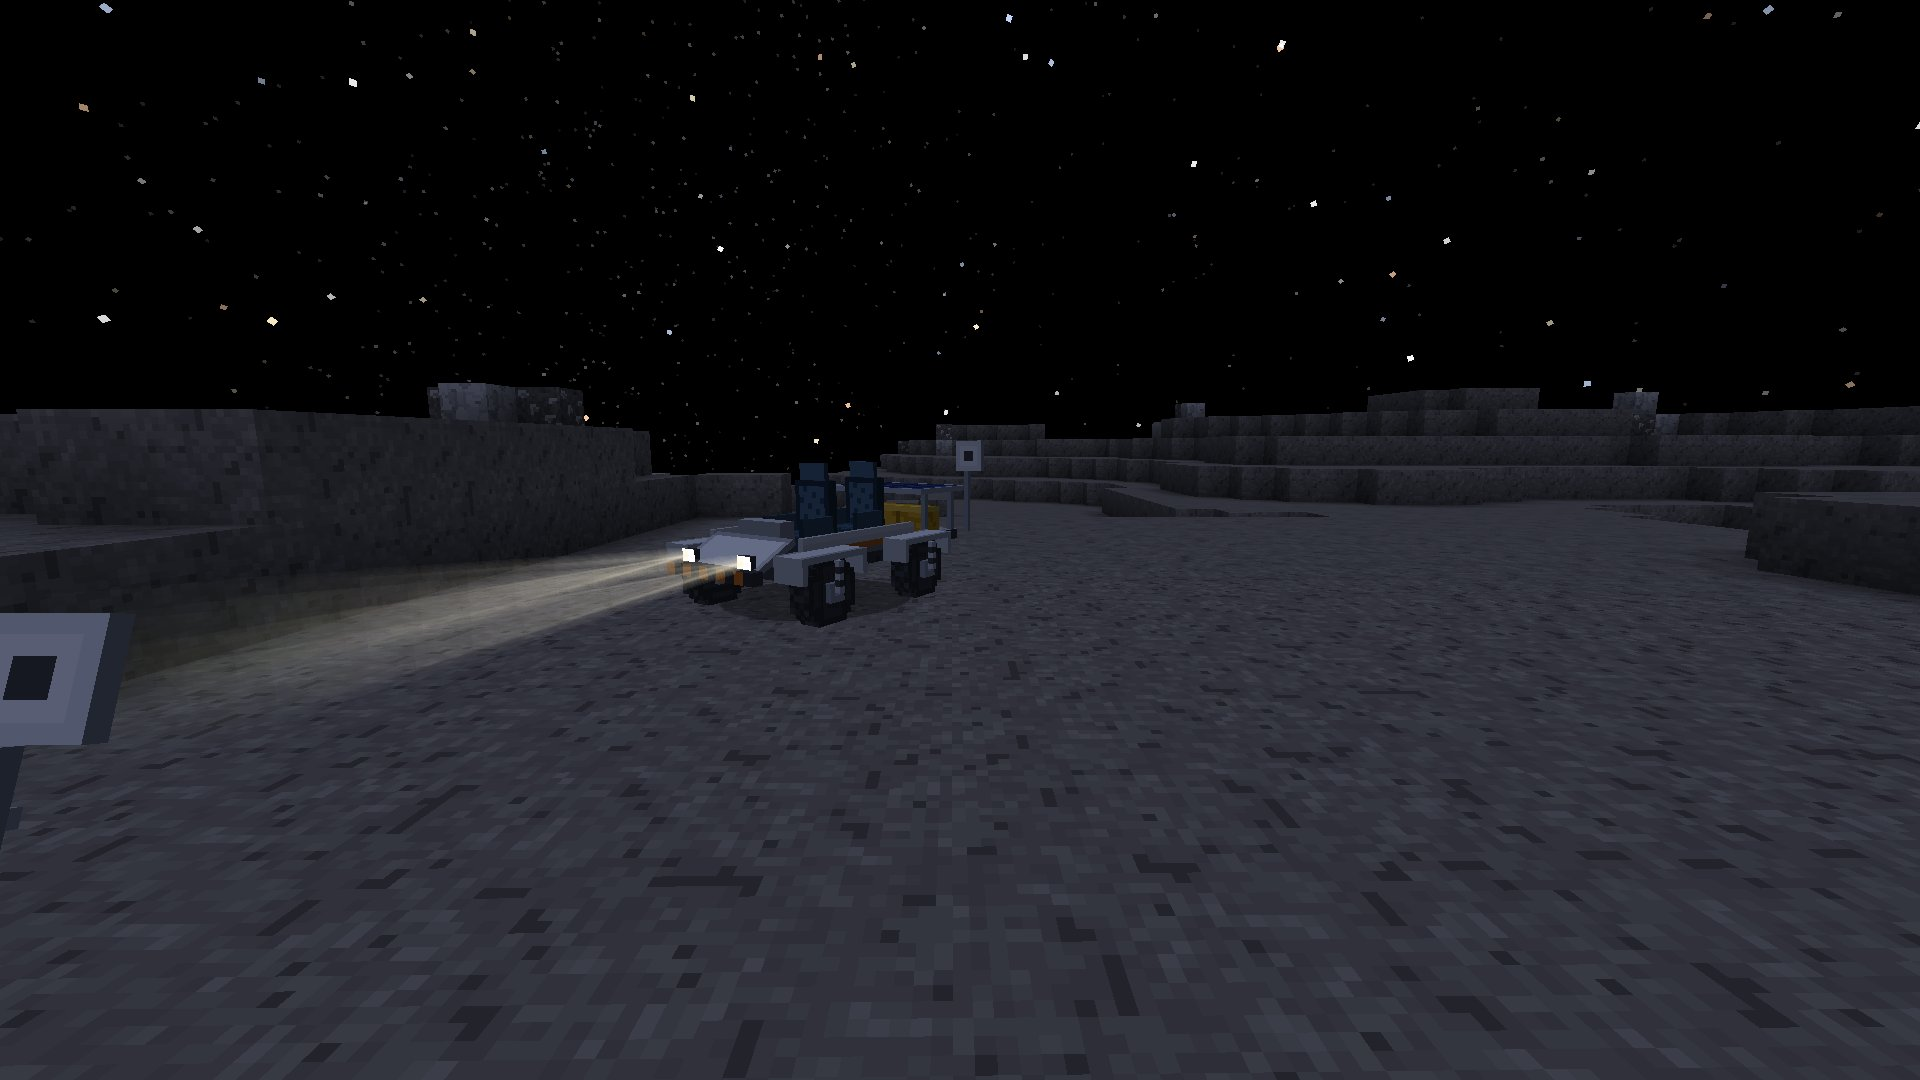
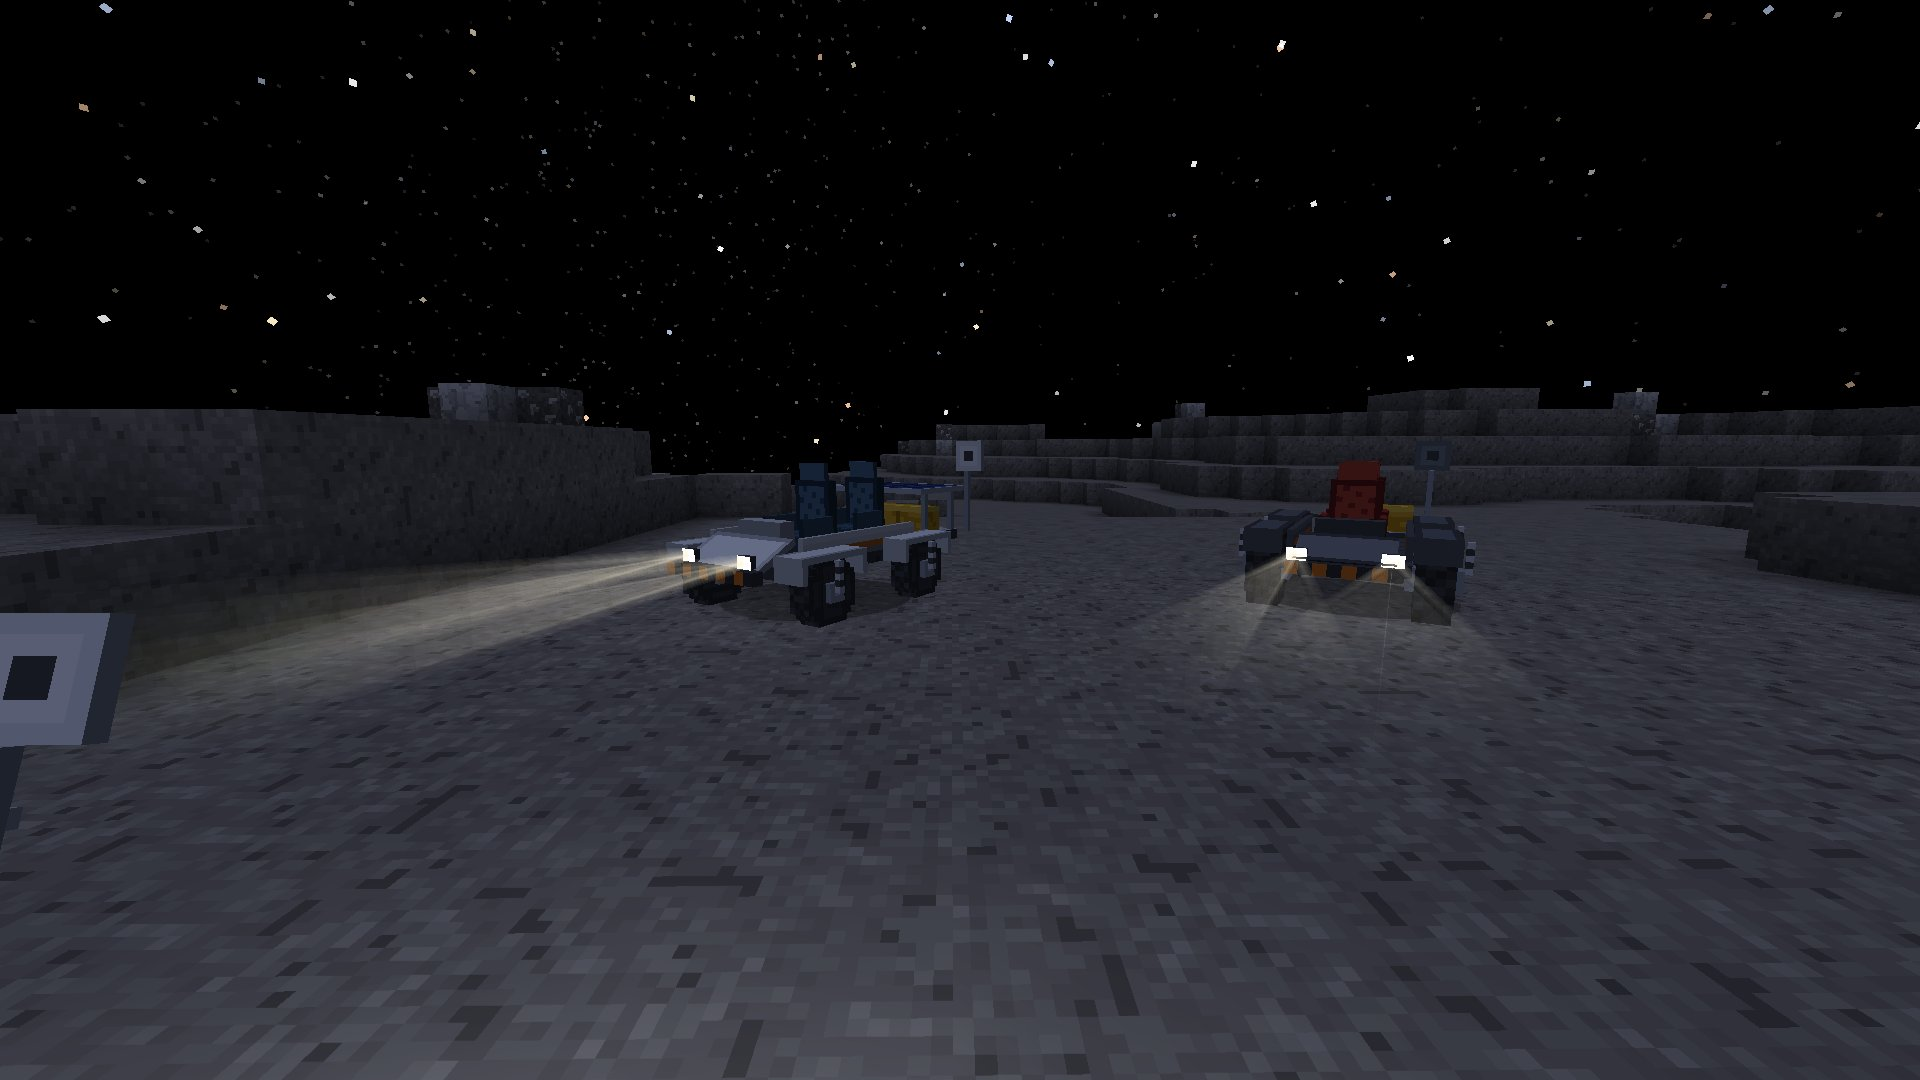
Light the ground ahead of rover headlights through the shared light beams and test shirt-sleeve cabin air

Changed region(s): [[0.625, 0.4278, 0.7812, 0.6111], [0.1875, 0.9167, 0.5312, 1.0]]

diff --git a/src/main/java/com/pizzaparker07/spacebreaker/client/vehicles/RoverLights.java b/src/main/java/com/pizzaparker07/spacebreaker/client/vehicles/RoverLights.java
@@ -1,0 +1,58 @@
+package com.pizzaparker07.spacebreaker.client.vehicles;
+
+import com.pizzaparker07.spacebreaker.client.light.LightBeams;
+import com.pizzaparker07.spacebreaker.content.vehicles.RoverEntity;
+import net.minecraft.client.Minecraft;
+import net.minecraft.util.Mth;
+import net.minecraft.world.level.ClipContext;
+import net.minecraft.world.phys.AABB;
+import net.minecraft.world.phys.BlockHitResult;
+import net.minecraft.world.phys.HitResult;
+import net.minecraft.world.phys.Vec3;
+
+import java.util.function.Consumer;
+
+/**
+ * Rover headlights as real moving lights: each lit rover gives two beams from the lamps on its nose, pointing where
+ * the body points (it leans with the ground), dipped a little towards the road. The shared light helper turns them
+ * into dynamic light with a lights mod, or soft pools of light without one. The visible cones stay in the renderer.
+ */
+final class RoverLights {
+    /** How far the headlights reach, blocks. */
+    static final double RANGE = 14;
+    static final int LUMINANCE = 13;
+    private static final double NEAR_GLOW = 0.12;
+    /** Lamps on the nose, model space (pixels): either side of the middle, up from the ground, ahead of the centre. */
+    private static final double LAMP_X = 6.5 / 16, LAMP_Y = 10 / 16.0, LAMP_FORWARD = 21.6 / 16;
+    /** The beams aim slightly down so they light the ground ahead. */
+    private static final double DIP = 0.08;
+
+    private RoverLights() {
+    }
+
+    static void collect(Minecraft mc, float pt, Consumer<LightBeams.Beam> out) {
+        Vec3 cam = mc.gameRenderer.getMainCamera().getPosition();
+        for (RoverEntity rover : mc.level.getEntitiesOfClass(RoverEntity.class, new AABB(cam, cam).inflate(64))) {
+            if (!RoverRenderer.lightsOn(rover)) {
+                continue;
+            }
+            float yaw = Mth.lerp(pt, rover.yRotO, rover.getYRot()) * Mth.DEG_TO_RAD;
+            float pitch = Mth.lerp(pt, rover.bodyPitchO, rover.bodyPitch);
+            Vec3 flat = new Vec3(-Mth.sin(yaw), 0, Mth.cos(yaw));
+            Vec3 right = new Vec3(Mth.cos(yaw), 0, Mth.sin(yaw));
+            Vec3 aim = flat.scale(Mth.cos(pitch)).add(0, Mth.sin(pitch) - DIP, 0).normalize();
+            Vec3 base = rover.getPosition(pt).add(0, LAMP_Y + Mth.lerp(pt, rover.bodyLiftO, rover.bodyLift), 0)
+                    .add(flat.scale(LAMP_FORWARD));
+            for (int side = -1; side <= 1; side += 2) {
+                Vec3 from = base.add(right.scale(side * LAMP_X));
+                Vec3 end = from.add(aim.scale(RANGE));
+                BlockHitResult hit = mc.level.clip(new ClipContext(from, end, ClipContext.Block.VISUAL, ClipContext.Fluid.NONE, rover));
+                boolean onSurface = hit.getType() == HitResult.Type.BLOCK;
+                Vec3 to = onSurface ? hit.getLocation() : end;
+                double d = to.distanceTo(from);
+                out.accept(new LightBeams.Beam(rover.getUUID() + (side < 0 ? "L" : "R"), from, to, onSurface, hit.getDirection(),
+                        LUMINANCE, 1.8 + 0.3 * d, Math.max(0, 1 - d / RANGE), NEAR_GLOW));
+            }
+        }
+    }
+}

diff --git a/src/testmod/java/com/pizzaparker07/spacebreaker/testmod/vehicles/RoverTests.java b/src/testmod/java/com/pizzaparker07/spacebreaker/testmod/vehicles/RoverTests.java
@@ -428,6 +428,41 @@ public final class RoverTests {
         });
     }
 
+    /**
+     * Life support reads the pressurised rover's cabin: a rider without a helmet has air at 21 °C, half the outside
+     * dose and normal pressure, breathing the cabin tank down; an empty tank or a plain rover is the outside again.
+     */
+    @GameTest(template = "empty", timeoutTicks = 40)
+    public static void cabinLetsTheCrewBreatheWithoutHelmets(GameTestHelper h) {
+        floor(h, Blocks.STONE.defaultBlockState());
+        for (var type : new net.minecraft.world.entity.EntityType<?>[]{VehiclesModule.PRESSURIZED_ROVER.get(), VehiclesModule.AMPHIBIOUS_ROVER.get()}) {
+            RoverEntity rover = (RoverEntity) h.spawn(type, Vec3.atBottomCenterOf(new BlockPos(2, 1, 2)));
+            rover.setEnergy(100_000);
+            rover.setCabinOxygen(1_000);
+            var crew = h.makeMockPlayer(net.minecraft.world.level.GameType.SURVIVAL);
+            h.assertTrue(crew.getItemBySlot(net.minecraft.world.entity.EquipmentSlot.HEAD).isEmpty(), "no helmet");
+            h.assertTrue(crew.startRiding(rover, true), "boards");
+            var env = com.pizzaparker07.spacebreaker.content.suit.LifeSupport.Env.at(crew, 100.0);
+            h.assertTrue(env.breathable() && env.ambientC() == 21.0 && Math.abs(env.doseRateMsvDay() - 50.0) < 1e-9 && env.pressureKpa() > 100,
+                    "cabin air, 21 C, half the dose: " + env);
+            // a resting rider breathes a little under one tick's worth per tick: a few ticks use up whole units
+            for (int i = 0; i < 5; i++) {
+                com.pizzaparker07.spacebreaker.content.suit.LifeSupport.Env.at(crew, 100.0);
+            }
+            h.assertTrue(rover.cabinOxygen() < 1_000 && rover.cabinOxygen() >= 990, "breathing the cabin tank down: " + rover.cabinOxygen());
+            rover.setCabinOxygen(0);
+            h.assertTrue(com.pizzaparker07.spacebreaker.content.suit.LifeSupport.cabin(crew) == null, "an empty tank is the outside again");
+            crew.stopRiding();
+            rover.discard();
+        }
+        RoverEntity open = spawn(h, new BlockPos(2, 1, 2));
+        open.setEnergy(100_000);
+        var rider = h.makeMockPlayer(net.minecraft.world.level.GameType.SURVIVAL);
+        rider.startRiding(open, true);
+        h.assertTrue(com.pizzaparker07.spacebreaker.content.suit.LifeSupport.cabin(rider) == null, "the open rover has no cabin");
+        h.succeed();
+    }
+
     /** A pool of a liquid, 7 x 9 and 3 deep, on a stone floor. */
     private static void pool(GameTestHelper h, BlockState liquid) {
         for (int x = 0; x < 7; x++) {

diff --git a/src/main/java/com/pizzaparker07/spacebreaker/client/vehicles/VehiclesClient.java b/src/main/java/com/pizzaparker07/spacebreaker/client/vehicles/VehiclesClient.java
@@ -22,6 +22,12 @@ public final class VehiclesClient {
     private VehiclesClient() {
     }
 
+    /** Headlights as moving lights through the shared light helper (dynamic lights mod, or soft pools). */
+    @SubscribeEvent
+    static void clientSetup(net.neoforged.fml.event.lifecycle.FMLClientSetupEvent event) {
+        com.pizzaparker07.spacebreaker.client.light.LightBeams.register(RoverLights::collect);
+    }
+
     @SubscribeEvent
     static void layers(EntityRenderersEvent.RegisterLayerDefinitions event) {
         event.registerLayerDefinition(RoverModel.LAYER, RoverModel::createLayer);
